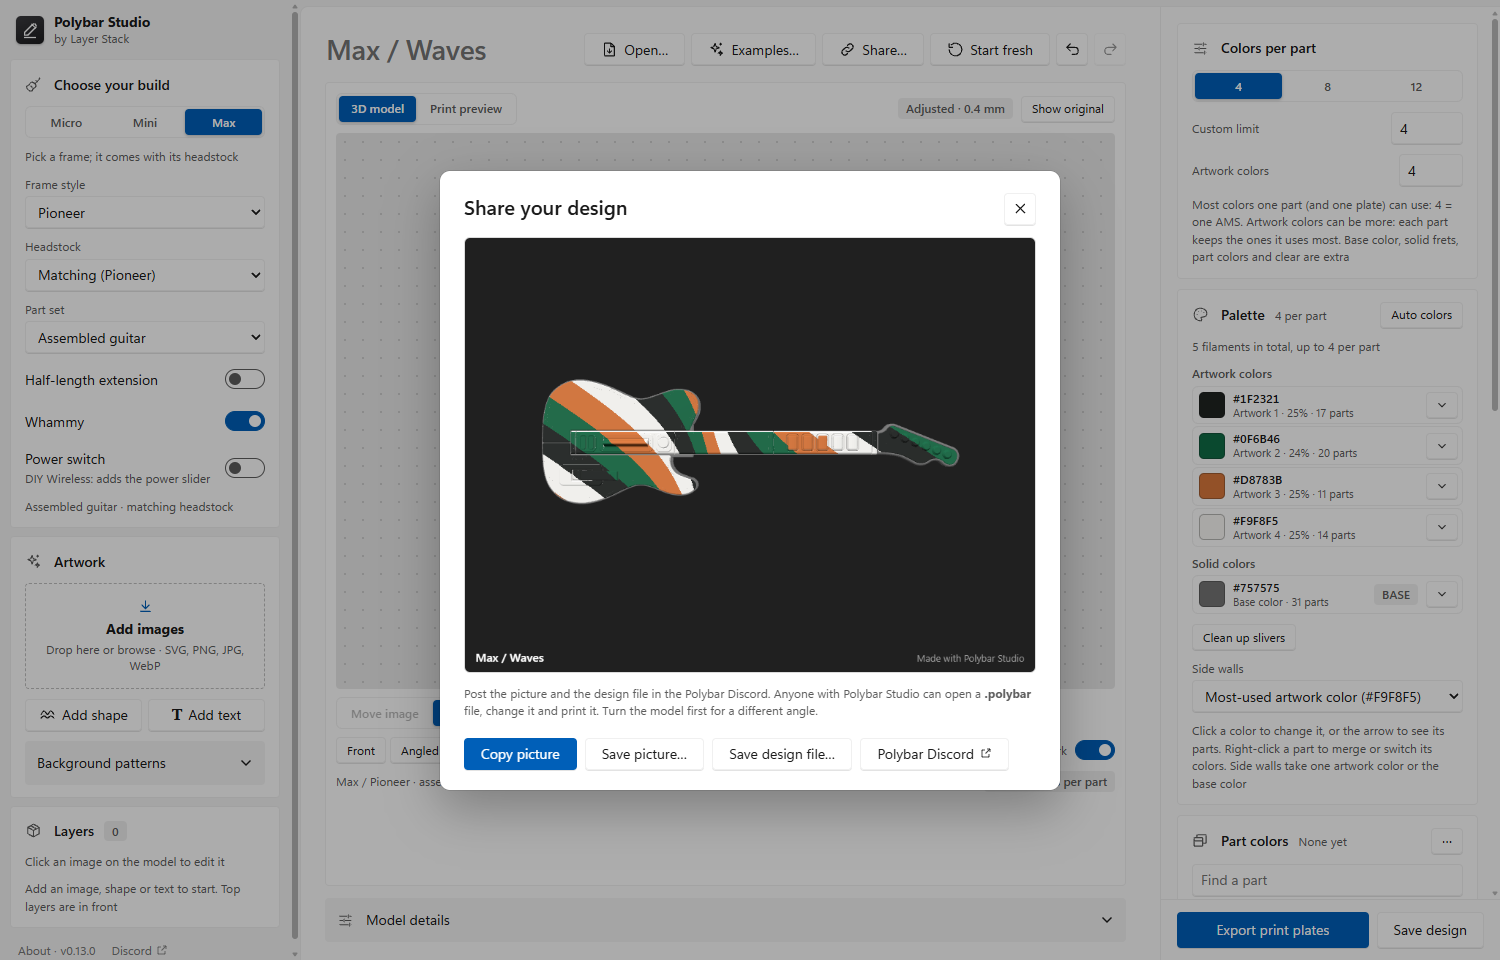
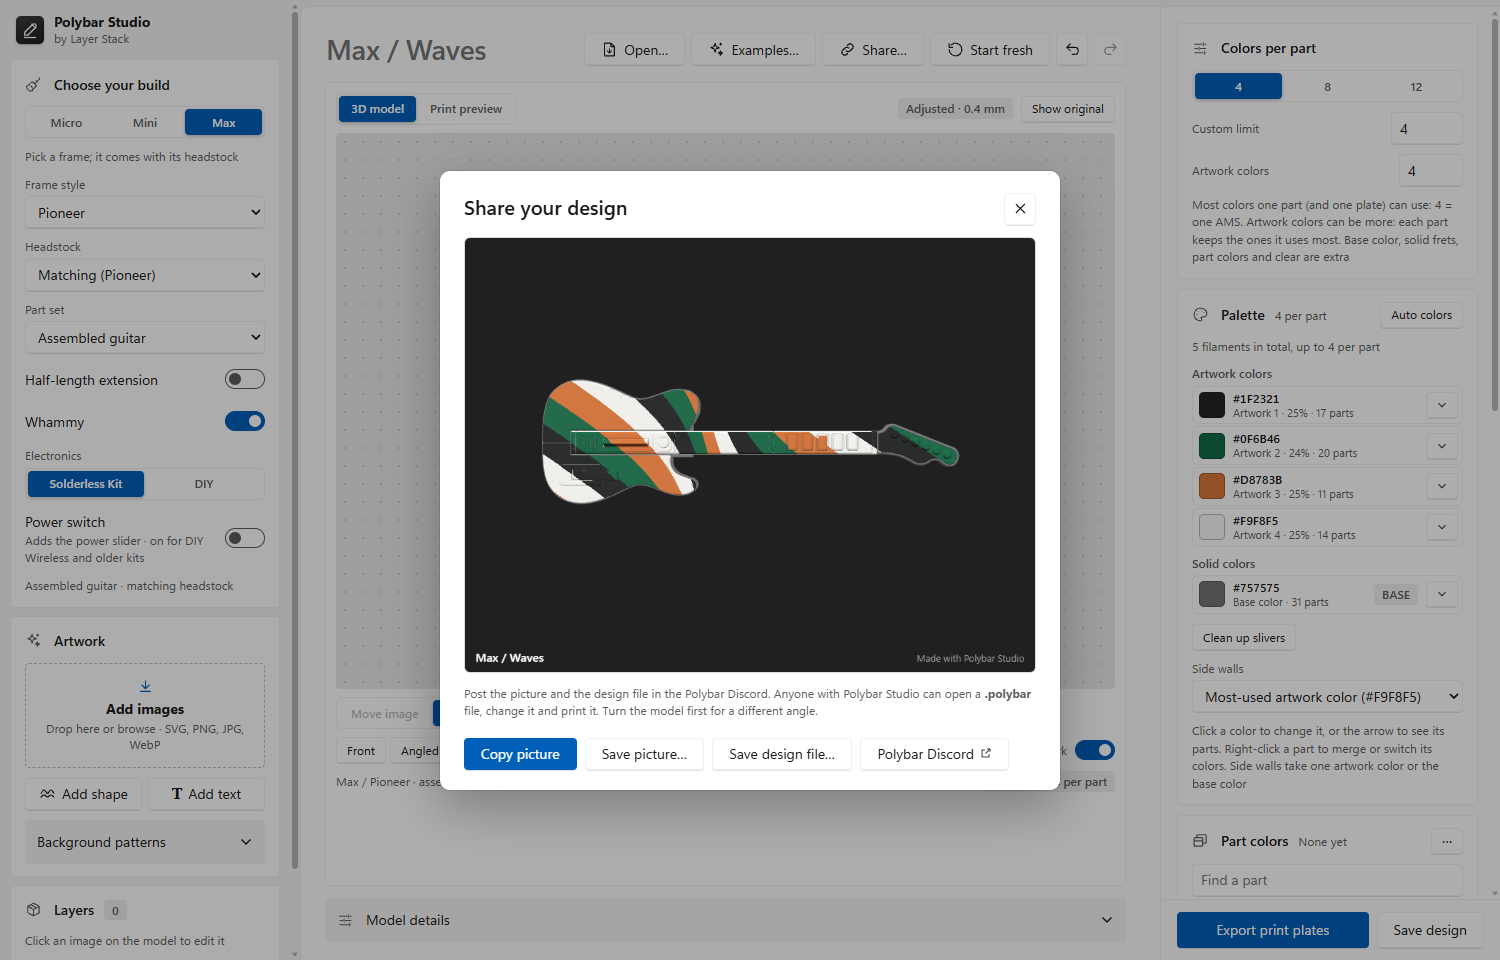
0.13.1: README, screenshots

diff --git a/README.md b/README.md
@@ -2,7 +2,7 @@
 
 Paint your Polybar Micro, Mini or Max, then get a print-ready Bambu Studio project for your Bambu Lab printer.
 
-[![Download for Windows](https://img.shields.io/badge/Download_for_Windows-Polybar_Studio_0.13.0-0078D4?style=for-the-badge&logo=windows)](https://github.com/3D-Printed-Controller-Systems/Polybar-Studio-Release/releases/latest/download/Polybar-Studio-Windows.exe)
+[![Download for Windows](https://img.shields.io/badge/Download_for_Windows-Polybar_Studio_0.13.1-0078D4?style=for-the-badge&logo=windows)](https://github.com/3D-Printed-Controller-Systems/Polybar-Studio-Release/releases/latest/download/Polybar-Studio-Windows.exe)
 
 Windows 10 or 11, 64-bit · about 50 MB · works offline · [all releases](https://github.com/3D-Printed-Controller-Systems/Polybar-Studio-Release/releases) · share your designs in the [Polybar Discord](https://discord.gg/wBRdgxEGhe)
 
@@ -32,7 +32,8 @@ Under **Choose your build**, pick **Micro**, **Mini** or **Max**.
 - **Mini** and **Max** have a **Frame style** list (Airbourne, Diablo, Maverick, Nomad, Offset, Pioneer, Renegade, Vampire, Wizard). Choose **No frame** for the bare controller.
 - **Headstock:** a Max frame comes with its matching headstock. Any Mini or Max can take any family's headstock from the **Headstock** list (on a Mini it's off by default: it's sized for the Max).
 - **Whammy** (a switch, on a Max with a frame): turn it off if you don't want a whammy. The whammy chassis, bar, magnet paddle and its two pivot pins then leave the preview and the export. A plug to close the opening is coming; until then the opening stays empty.
-- **Power switch** (a switch, off by default): leave it off for the USK boards, which have the power circuit built in; every color plate opening then gets a blank plate. Turn it on for a **DIY Wireless** build: the strum housing gets the power slider (its color plate, toggle plate and switch) instead of a blank.
+- **Electronics:** **Solderless Kit** (the default) or **DIY**. DIY prints the DIY strum end cap (its USB opening differs) and turns the Power switch on; Solderless Kit prints its own cap and turns the Power switch off.
+- **Power switch** (a switch): off, every color plate opening gets a blank plate (the new Solderless Kit boards have the power circuit built in). On, the strum housing gets the power slider (its color plate, toggle plate and switch) instead of a blank. Picking the electronics sets it (on for DIY, since DIY Wireless needs it), but you can always change it: turn it on for older Solderless Kit electronics, or off for a wired DIY build.
 - **Part set** (under Headstock) switches the preview between the assembled guitar, the frame only, and the headstock. Your artwork stays in the same place in every view. **Frame only** shows just the frame; artwork stops where the housing covers it on the finished guitar.
 
 Drag in the preview to rotate, scroll to zoom (it zooms toward the mouse pointer), right-drag to pan. Right-drag pans even while an image is selected, so you can zoom in on a horn or the headstock and move around while you place artwork. **Front**, **Angled** and **Back** jump to a view.
@@ -211,6 +212,8 @@ In the slicer, pick your actual filament profiles, check that each color goes to
 ## Releases
 
 Each release lists the installer's SHA-256 and the [Development](https://github.com/3D-Printed-Controller-Systems/Polybar-Studio-Development) commit it was built from.
+
+**0.13.1**: **Electronics** choice, **Solderless Kit** or **DIY**: DIY prints the DIY strum end cap and turns the Power switch on; the Power switch stays changeable for older Solderless Kits and wired DIY builds.
 
 **0.13.0**: **every part of an assembled Polybar** in the model and the export: color plates in each housing opening, both strum pivot pins, the whammy's two pivot pins and magnet paddle, two strap lugs per frame, the Vampire's four tuner tabs (all in the base color unless you color them); a **Power switch** setting (off for USK boards: all blank color plates; on for DIY Wireless: the power slider); a simpler **Part colors** card (your colored parts first, search, folded groups, identical parts as one row).
 
